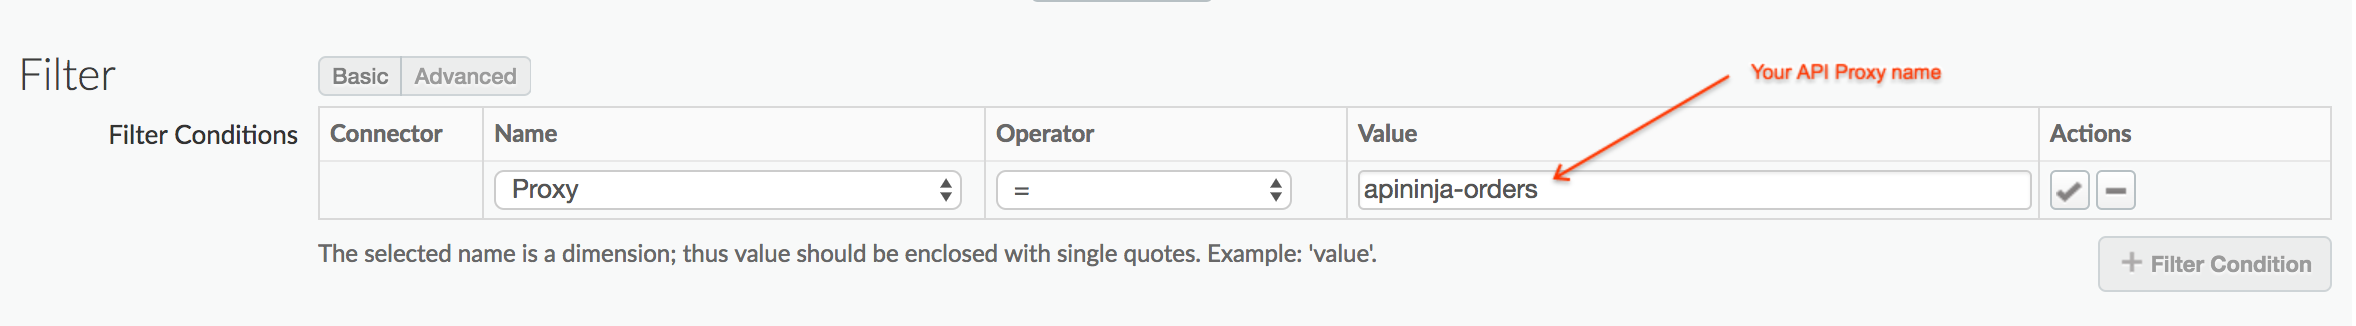
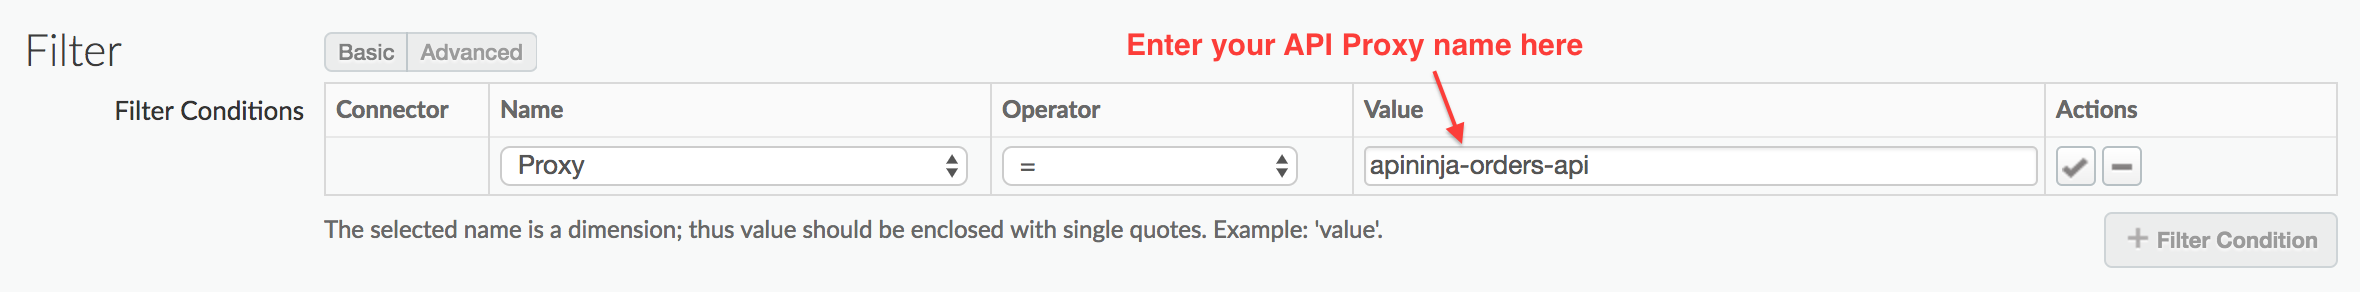
Corrected image08

diff --git a/lab_appendix1.md b/lab_appendix1.md
@@ -55,7 +55,7 @@ In this lab, you will create a custom report to provide insight into the consump
 
 ![Image](images/lab_appendix1/image07.png)
 
-* You can further narrow the data displayed by adding filters to your report definition. In the **Filter** section of the page, click **+ Filter Condition**. Select Proxy as the entity you want to filter on, select = as the **Operator** and set the **Value** to your API Proxy name (e.g. “apininja-orders”).
+* You can further narrow the data displayed by adding filters to your report definition. In the **Filter** section of the page, click **+ Filter Condition**. Select Proxy as the entity you want to filter on, select = as the **Operator** and set the **Value** to your API Proxy name (e.g. “apininja-orders-api”).
 
 ![Image](images/lab_appendix1/image08.png)
 
